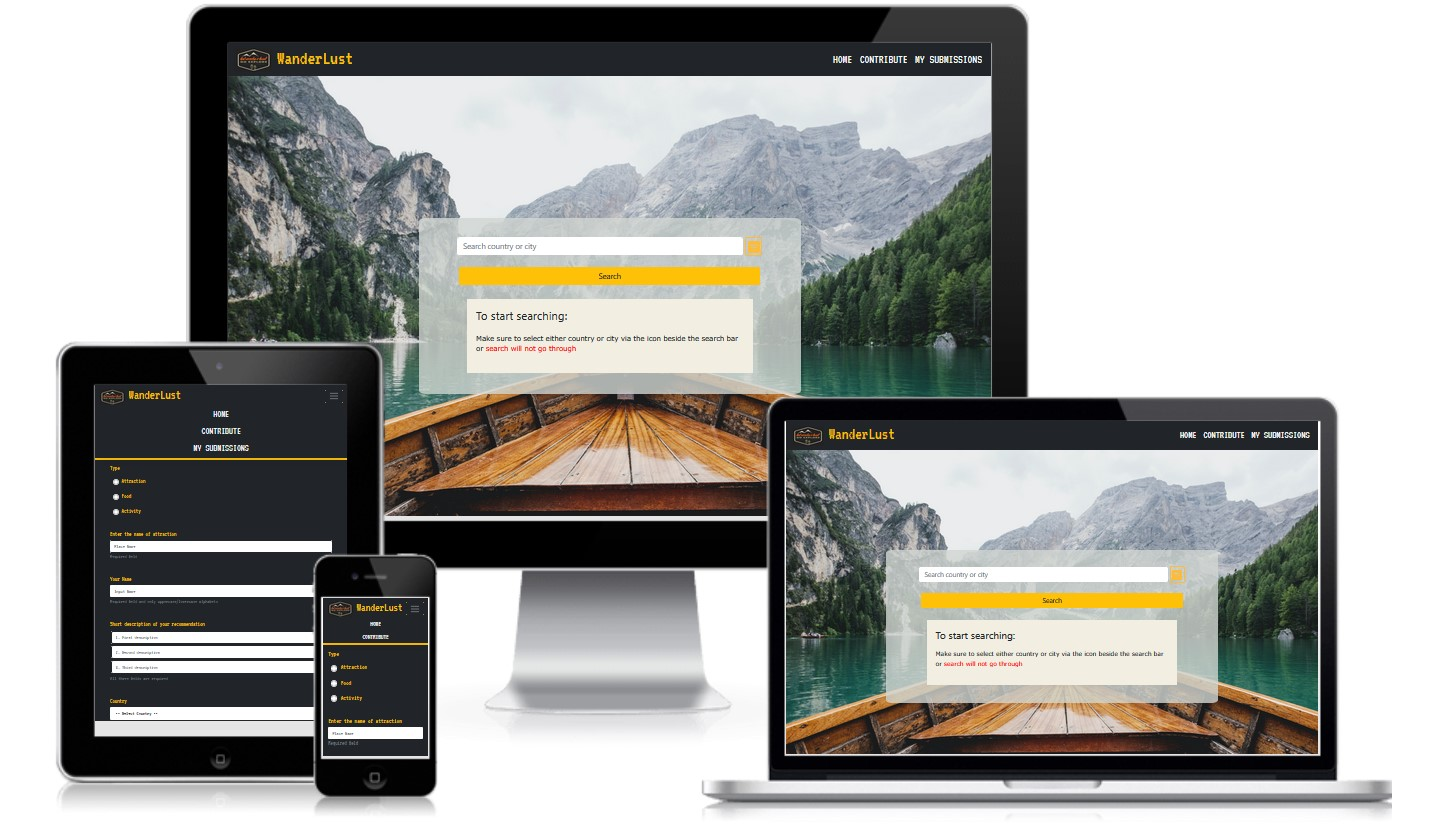
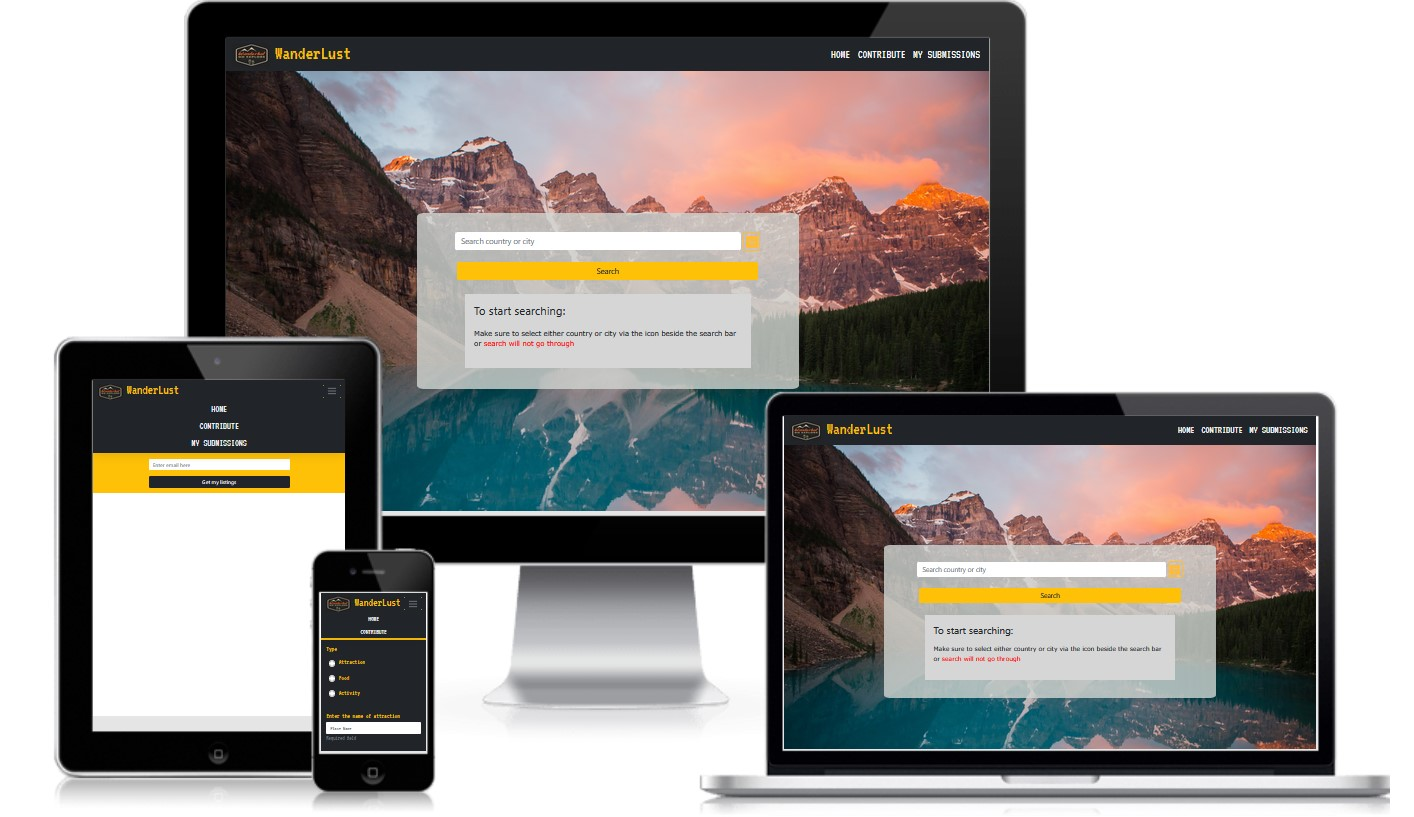
readMe done

diff --git a/src/Pages/LandingPage.js b/src/Pages/LandingPage.js
@@ -5,7 +5,6 @@ import Button from 'react-bootstrap/Button';
 import Form from 'react-bootstrap/Form';
 import axios from "axios";
 import { searchSchema } from "../Validations/SearchValidation";
-// import LandingError from "../Components/LandingError";
 import Modal from 'react-bootstrap/Modal';
 import {  BsFillFilterSquareFill } from "react-icons/bs"
 import Spinner from "../Components/Spinner";

diff --git a/src/Pages/Listing.js b/src/Pages/Listing.js
@@ -6,7 +6,6 @@ import ListGroup from 'react-bootstrap/ListGroup';
 import Badge from 'react-bootstrap/Badge';
 import Modal from 'react-bootstrap/Modal';
 import Button from 'react-bootstrap/Button';
-// import Form from 'react-bootstrap/Form';
 import '../css/Listing.css'
 import axios from 'axios';
 import { RiStarSFill } from "react-icons/ri";

diff --git a/README.md b/README.md
@@ -86,22 +86,22 @@ Initial prototyping is seen here ![prototype1](./src/Images/wireframe1.jpg)![pro
 
 The prototype is done with a mobile first approach and throughout the project it have been re-visited several times while working on the project and styling across devices. 
 
-<!-- #### Color Scheme
+#### Color Scheme
 
-<figure>
-    <img src="/readme/color_scheme.png" height="450" alt="Color Scheme">
-</figure>
+![Colour-Scheme](./src/Images/project2_colour_theme.jpg)
 
-- As green and gold are often associated with Islam, they have been chosen specifically for the site
+- The duller colours like light grey are use to present the webpage as a more comtemporary modern website at the landing page 
 - The rest of the colors are then randomly generated via [Coolors](https://coolors.co/)
-- Brighter colors are chosen to be used emphasized content
+- The yellowish series of colours were meant to bring out the warm happy feelings associated with reminiscing about travels
 - Darker colors are chosen to be used for text, shadows and for overlaying images
-- Lighter colors are chosen to be used as background colors, and to be used as contrast text colors
+- Feedback was that the yellowish colours were rather contrasting with the comtemporary feels the main landing page provides. Therefore, there will be further changes made to the colour theme 
 
 #### Font
-_Reem Kufi_ have been chosen as the font for headings, titles, subtitles, etc, because it was designed with the Arabic calligraphy in mind and then combined with Latin component later on. With the Arabic calligraphy system as its backbone, the font will breed familiarity with its intended users.
+VT323 have been chosen as the font for headings, titles, subtitles, etc, because it looked compatible with the colours 
 
-_Raleway_ is used for all body text meant for reading, to server as a contrast to the former font with its thinner weight and lining. -->
+Verdana, Geneva, sans-serif is used for all body text meant for reading, to server as a contrast to the former font with its thinner weight and lining.
+
+There was also feedback that font-use was rather contrasting between those meant for reading and those meant for subtitles, there will also be changes made to this when colour theme is changed
 
 ---
 
